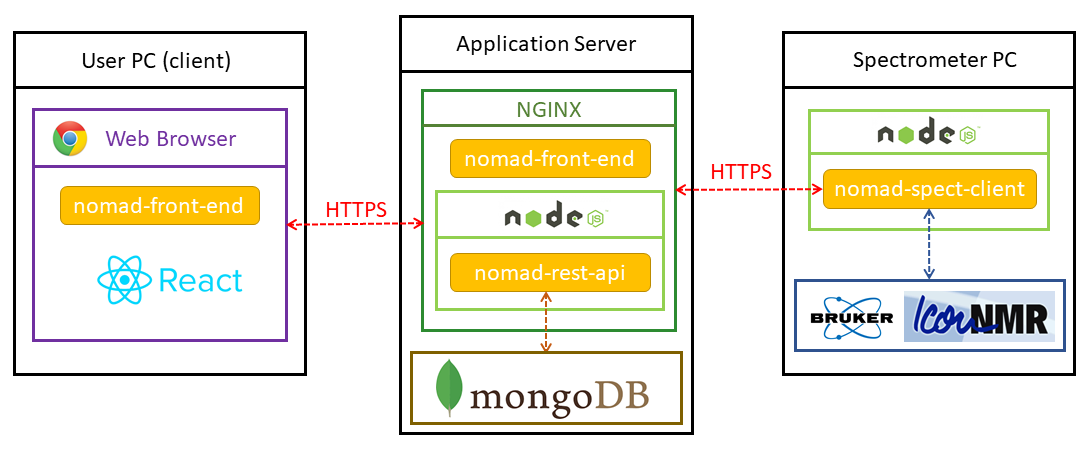
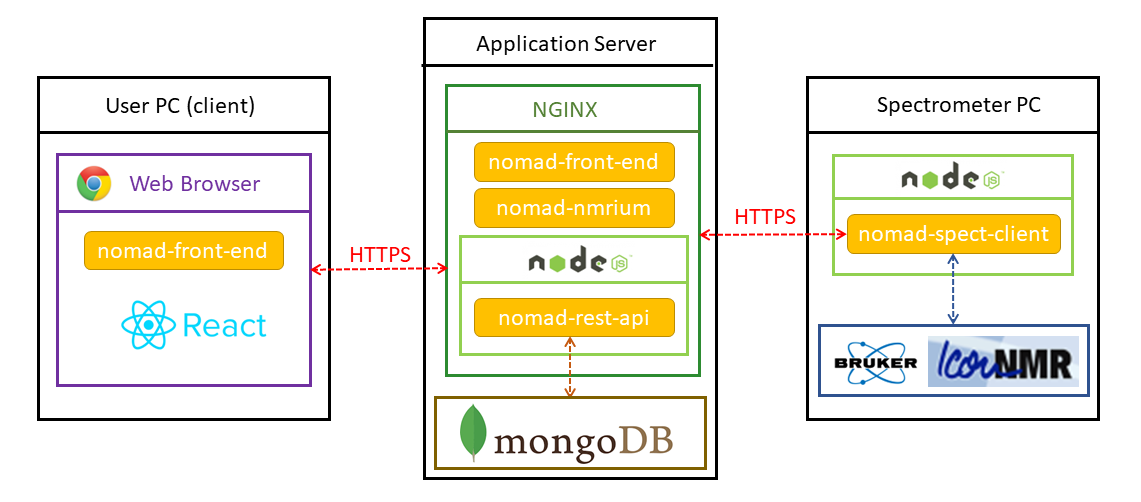
sys config update

Changed region(s): [[0.0, 0.031, 0.9963, 0.9623]]

diff --git a/docs/getting-started/system-overview.md b/docs/getting-started/system-overview.md
@@ -4,7 +4,7 @@ sidebar_position: 1
 
 # System Overview
 
-NOMAD is a web application that has been programmed using **[Javascript MERN stack](https://www.educative.io/edpresso/what-is-mern-stack)**. The whole app is composed of three parts and corresponding code is stored in three individual GitHub repositories.
+NOMAD is a web application that has been programmed using **[Javascript MERN stack](https://www.educative.io/edpresso/what-is-mern-stack)**. The whole app is composed of four parts and corresponding code is stored in three individual GitHub repositories.
 
 :::tip
 If you are a Javascript developer familiar with MERN stack then likely there is nothing new for you in this section.
@@ -21,5 +21,9 @@ This repository contains back-end code of the NOMAD system built using **[Expres
 ## nomad-spect-client
 
 The spectrometer client is a Javascript code that runs on spectrometer PC in **[Node.js](https://nodejs.org/en/)** runtime environment and enables communication of NOMAD back-end with Bruker IconNMR. It parses status and history HTML file(s) and outputs files in external setup folder to control automated run of the NMR spectrometer.
+
+## nomad-nmrium
+
+Wrapper for **[NMRium](https://www.nmrium.org/)** React component that enables communication with nomad-rest-api.
 
 ![Technical Overview](./assets/technical_overview_schema.png)
